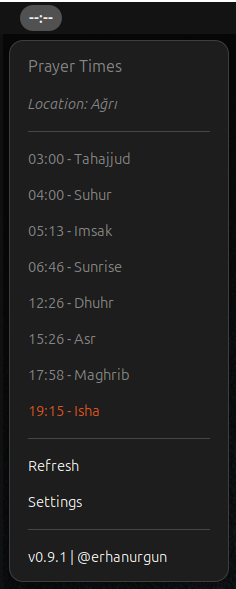
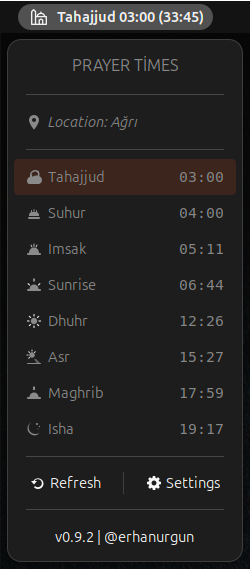
docs: README versiyon badge ve ekran görüntüleri güncellendi

diff --git a/README.md b/README.md
@@ -1,5 +1,7 @@
 # Praytime - GNOME Shell Extension
 
+![Version](https://img.shields.io/badge/version-0.9.2-blue)
+
 > [English documentation](README.en.md)
 
 GNOME Shell için namaz vakitleri bildirimi ve panel gösterimi extension'ı.

diff --git a/README.en.md b/README.en.md
@@ -1,5 +1,7 @@
 # Praytime - GNOME Shell Extension
 
+![Version](https://img.shields.io/badge/version-0.9.2-blue)
+
 > [Turkce dokumantasyon](README.md)
 
 Prayer times notification and panel display extension for GNOME Shell.
